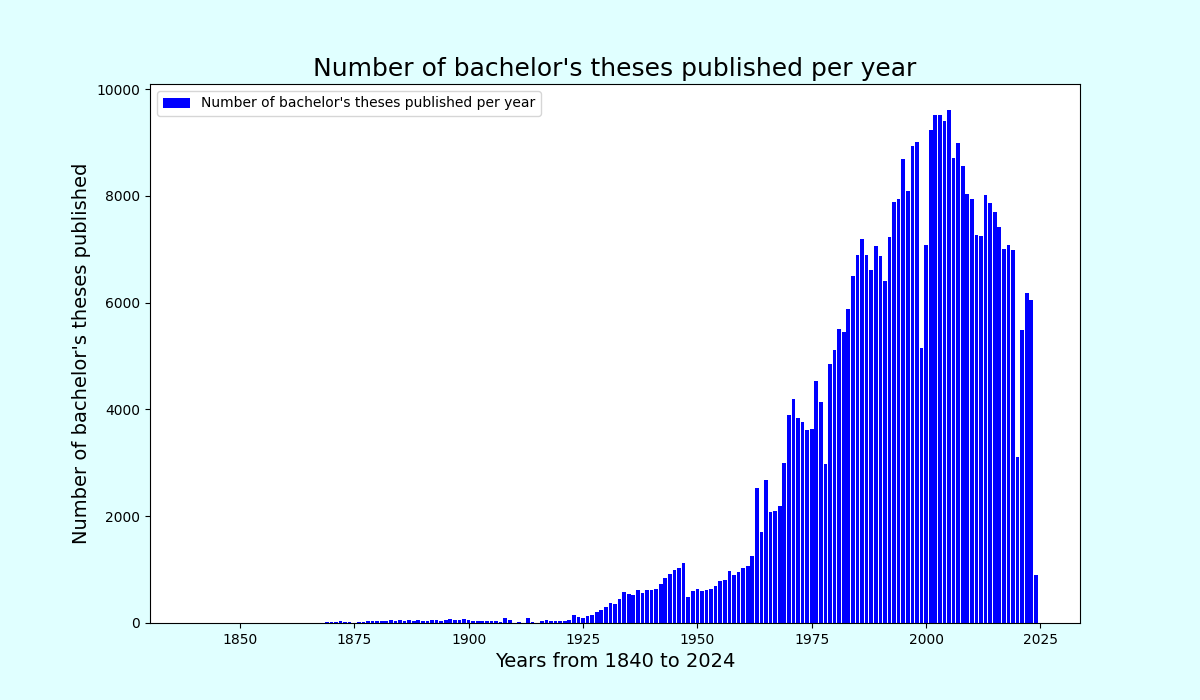
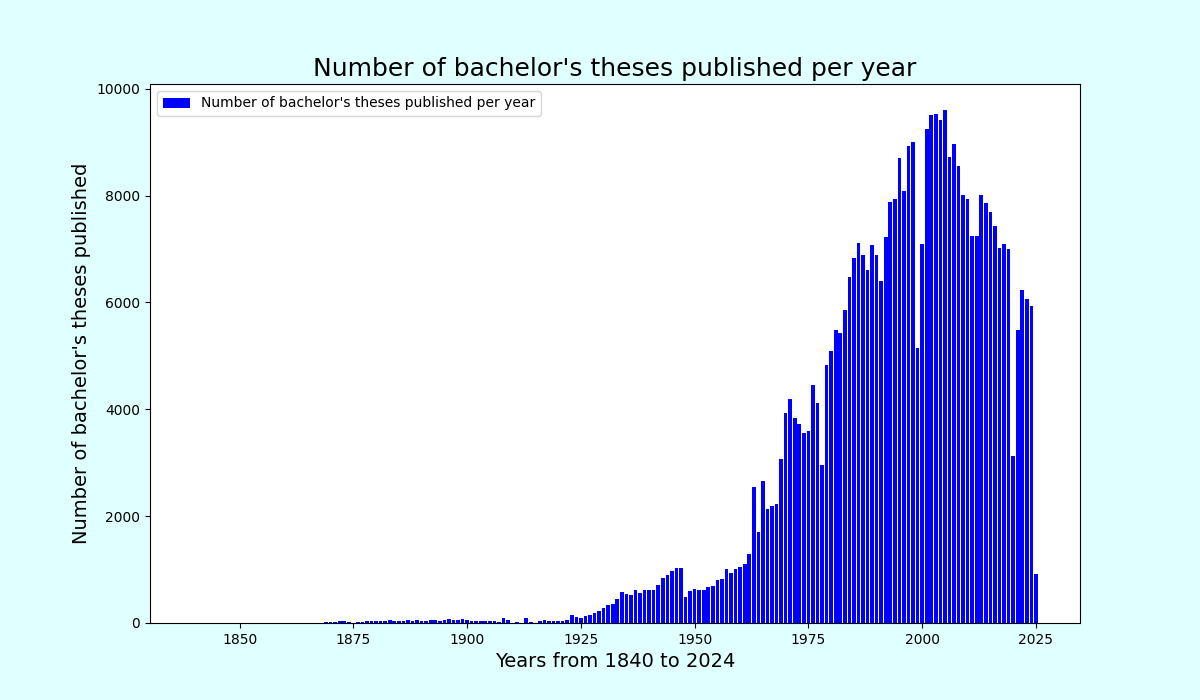
Updating hist plot

diff --git a/DataVisualizationServices/2tesis_per_year_visualization.py b/DataVisualizationServices/2tesis_per_year_visualization.py
@@ -1,28 +1,14 @@
+import pandas as pd
 import numpy as np
 import matplotlib.pyplot as plt
 
-PATH, frequency = "../DataAcquisition/Title-Author/", {}
+PATH, frequency = "../DataCleaning/", {}
 
-def counting(filename):
-    with open(PATH + filename, "r", encoding="latin1") as file:
-        lines = file.readlines()
-        for line in lines:
-            if not line.startswith("https://tesiunam.dgb.unam.mx"):
-                year, line = "", line.strip()
-                for character in reversed(line):
-                    if character.isnumeric(): year = character + year
-                    if len(year) == 4: break
-                try: frequency[int(year)] += 1
-                except: frequency[int(year)] = 1
+df = pd.read_csv(PATH + "Name_LastName_Title_Year.csv")
+for year in df["Year"].unique():
+    frequency[year] = df[df["Year"] == year].shape[0]
 
-counting("1800-1899_thesis-link.txt")
-counting("1900-1919_thesis-link.txt")
-
-for year in range(1920, 2025):
-    with open(PATH + str(year) + "_thesis-link.txt", "r", encoding="latin1") as file: frequency[year] = len(file.readlines()) // 2
-
-frequency = sorted([item for item in frequency.items()])
-years, freq = np.array([year for year, freq in frequency]), np.array([freq for year, freq in frequency])
+years, freq = np.array([year for year, freq in frequency.items()]), np.array([freq for year, freq in frequency.items()])
 
 fig, ax = plt.subplots(figsize=(12,7))
 ax.set_title("Number of bachelor's theses published per year", fontsize=18)
